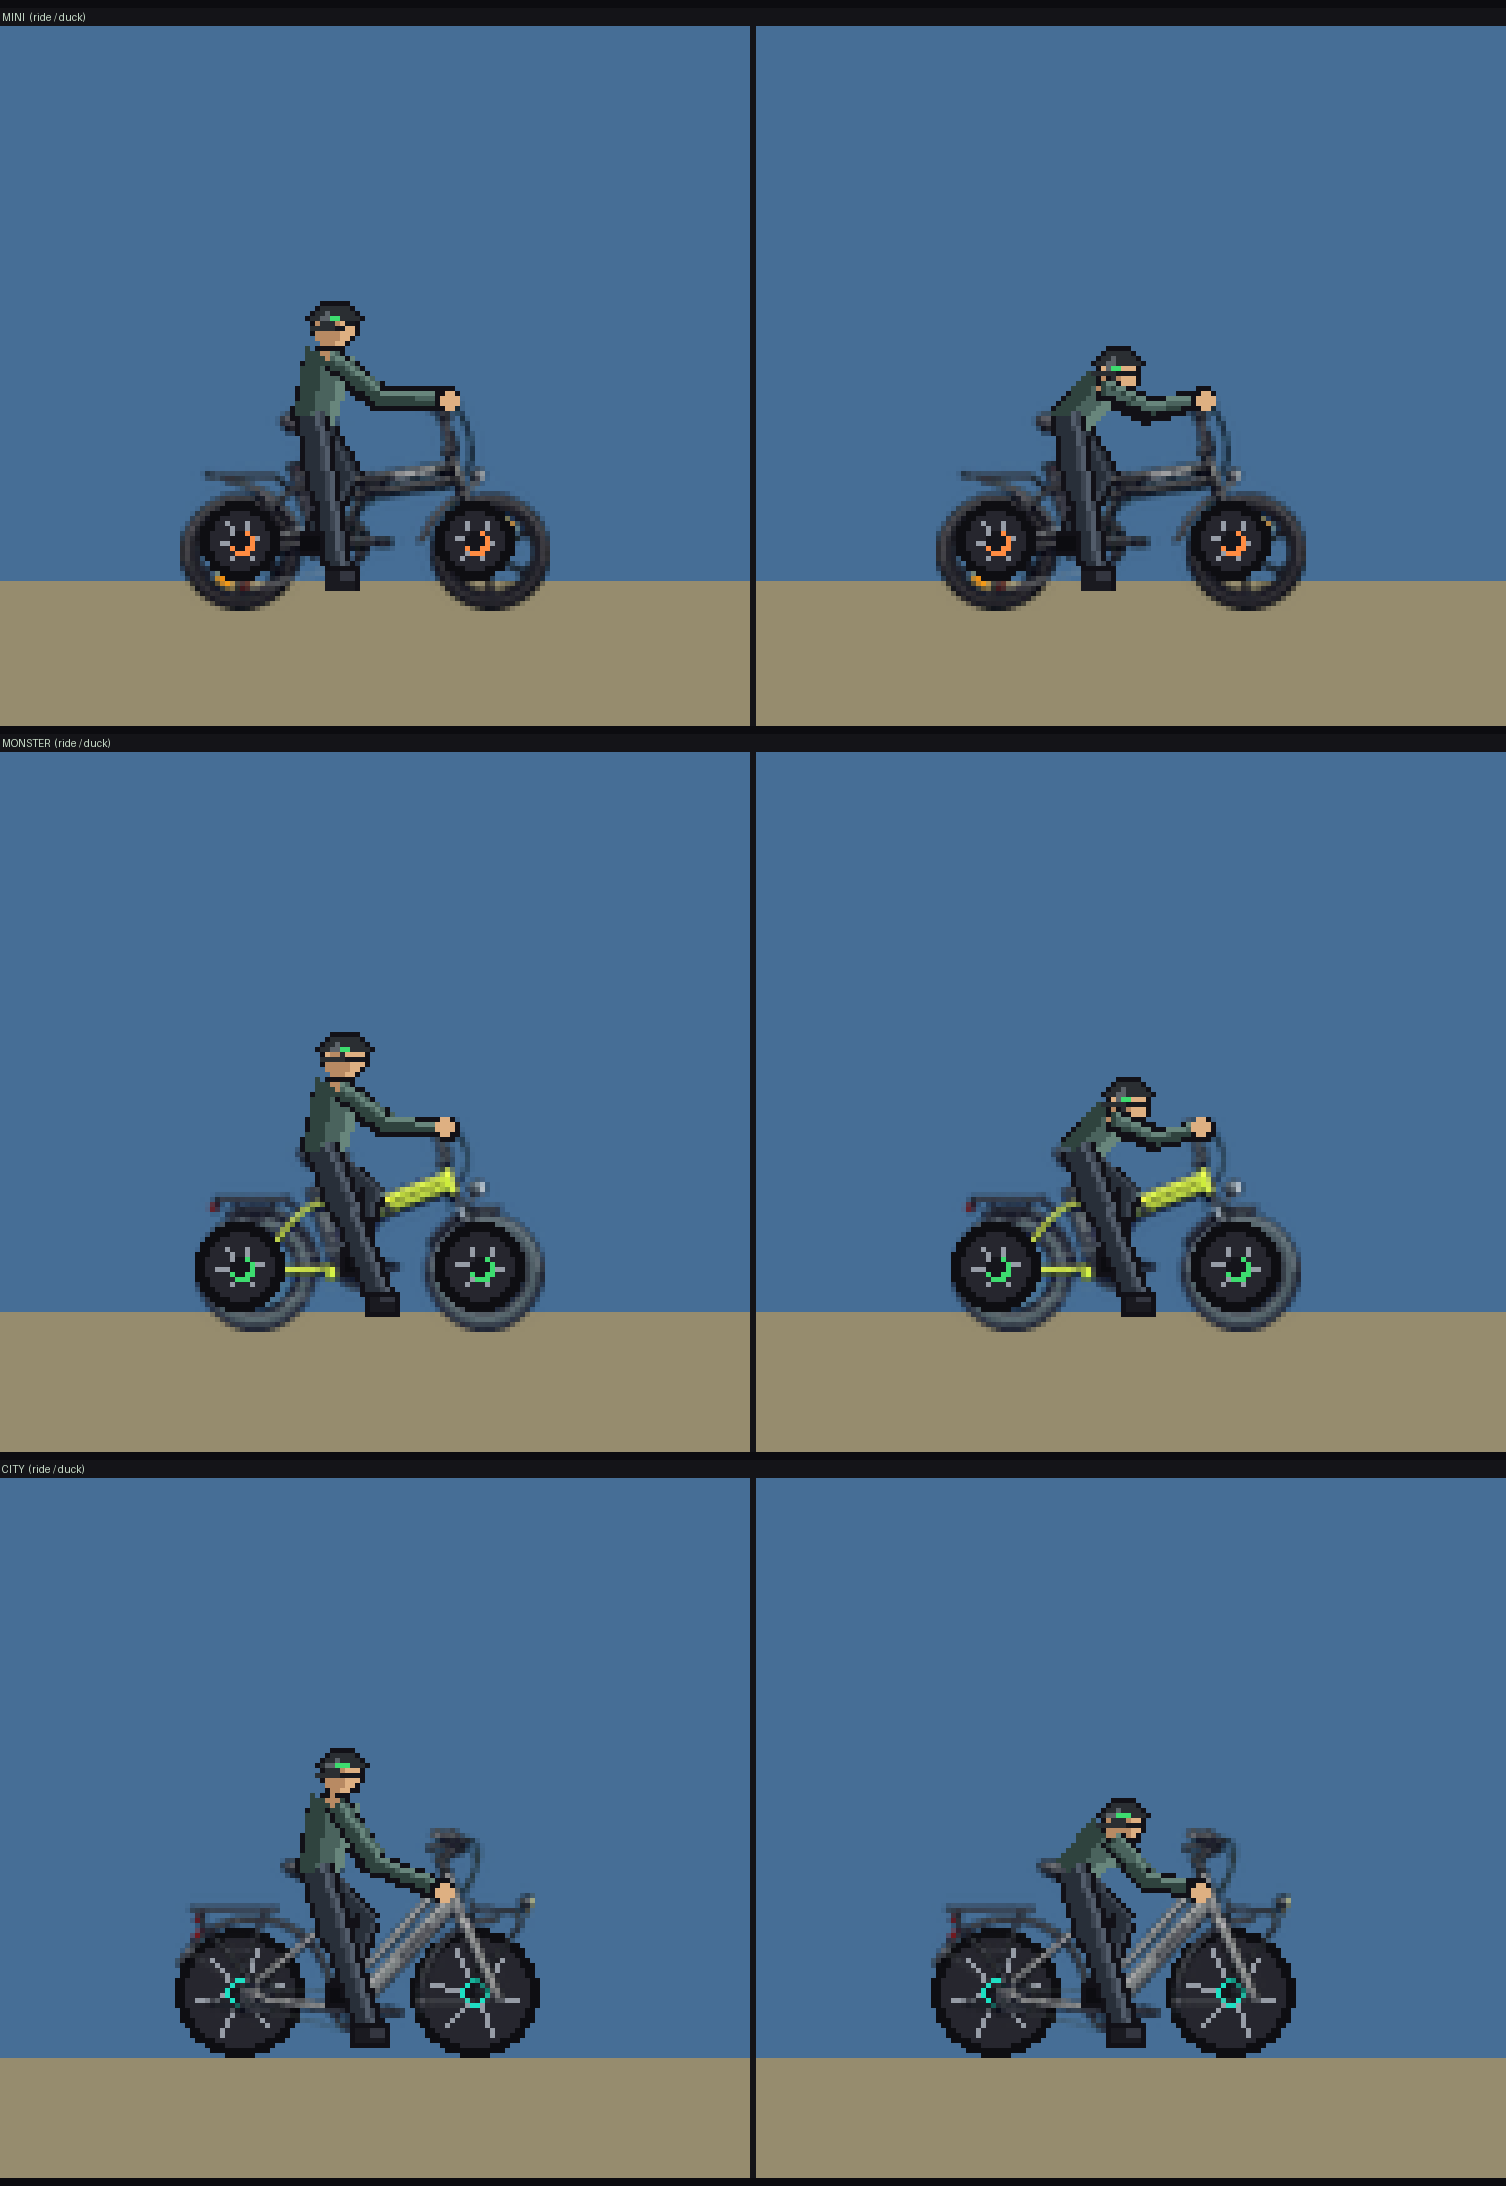
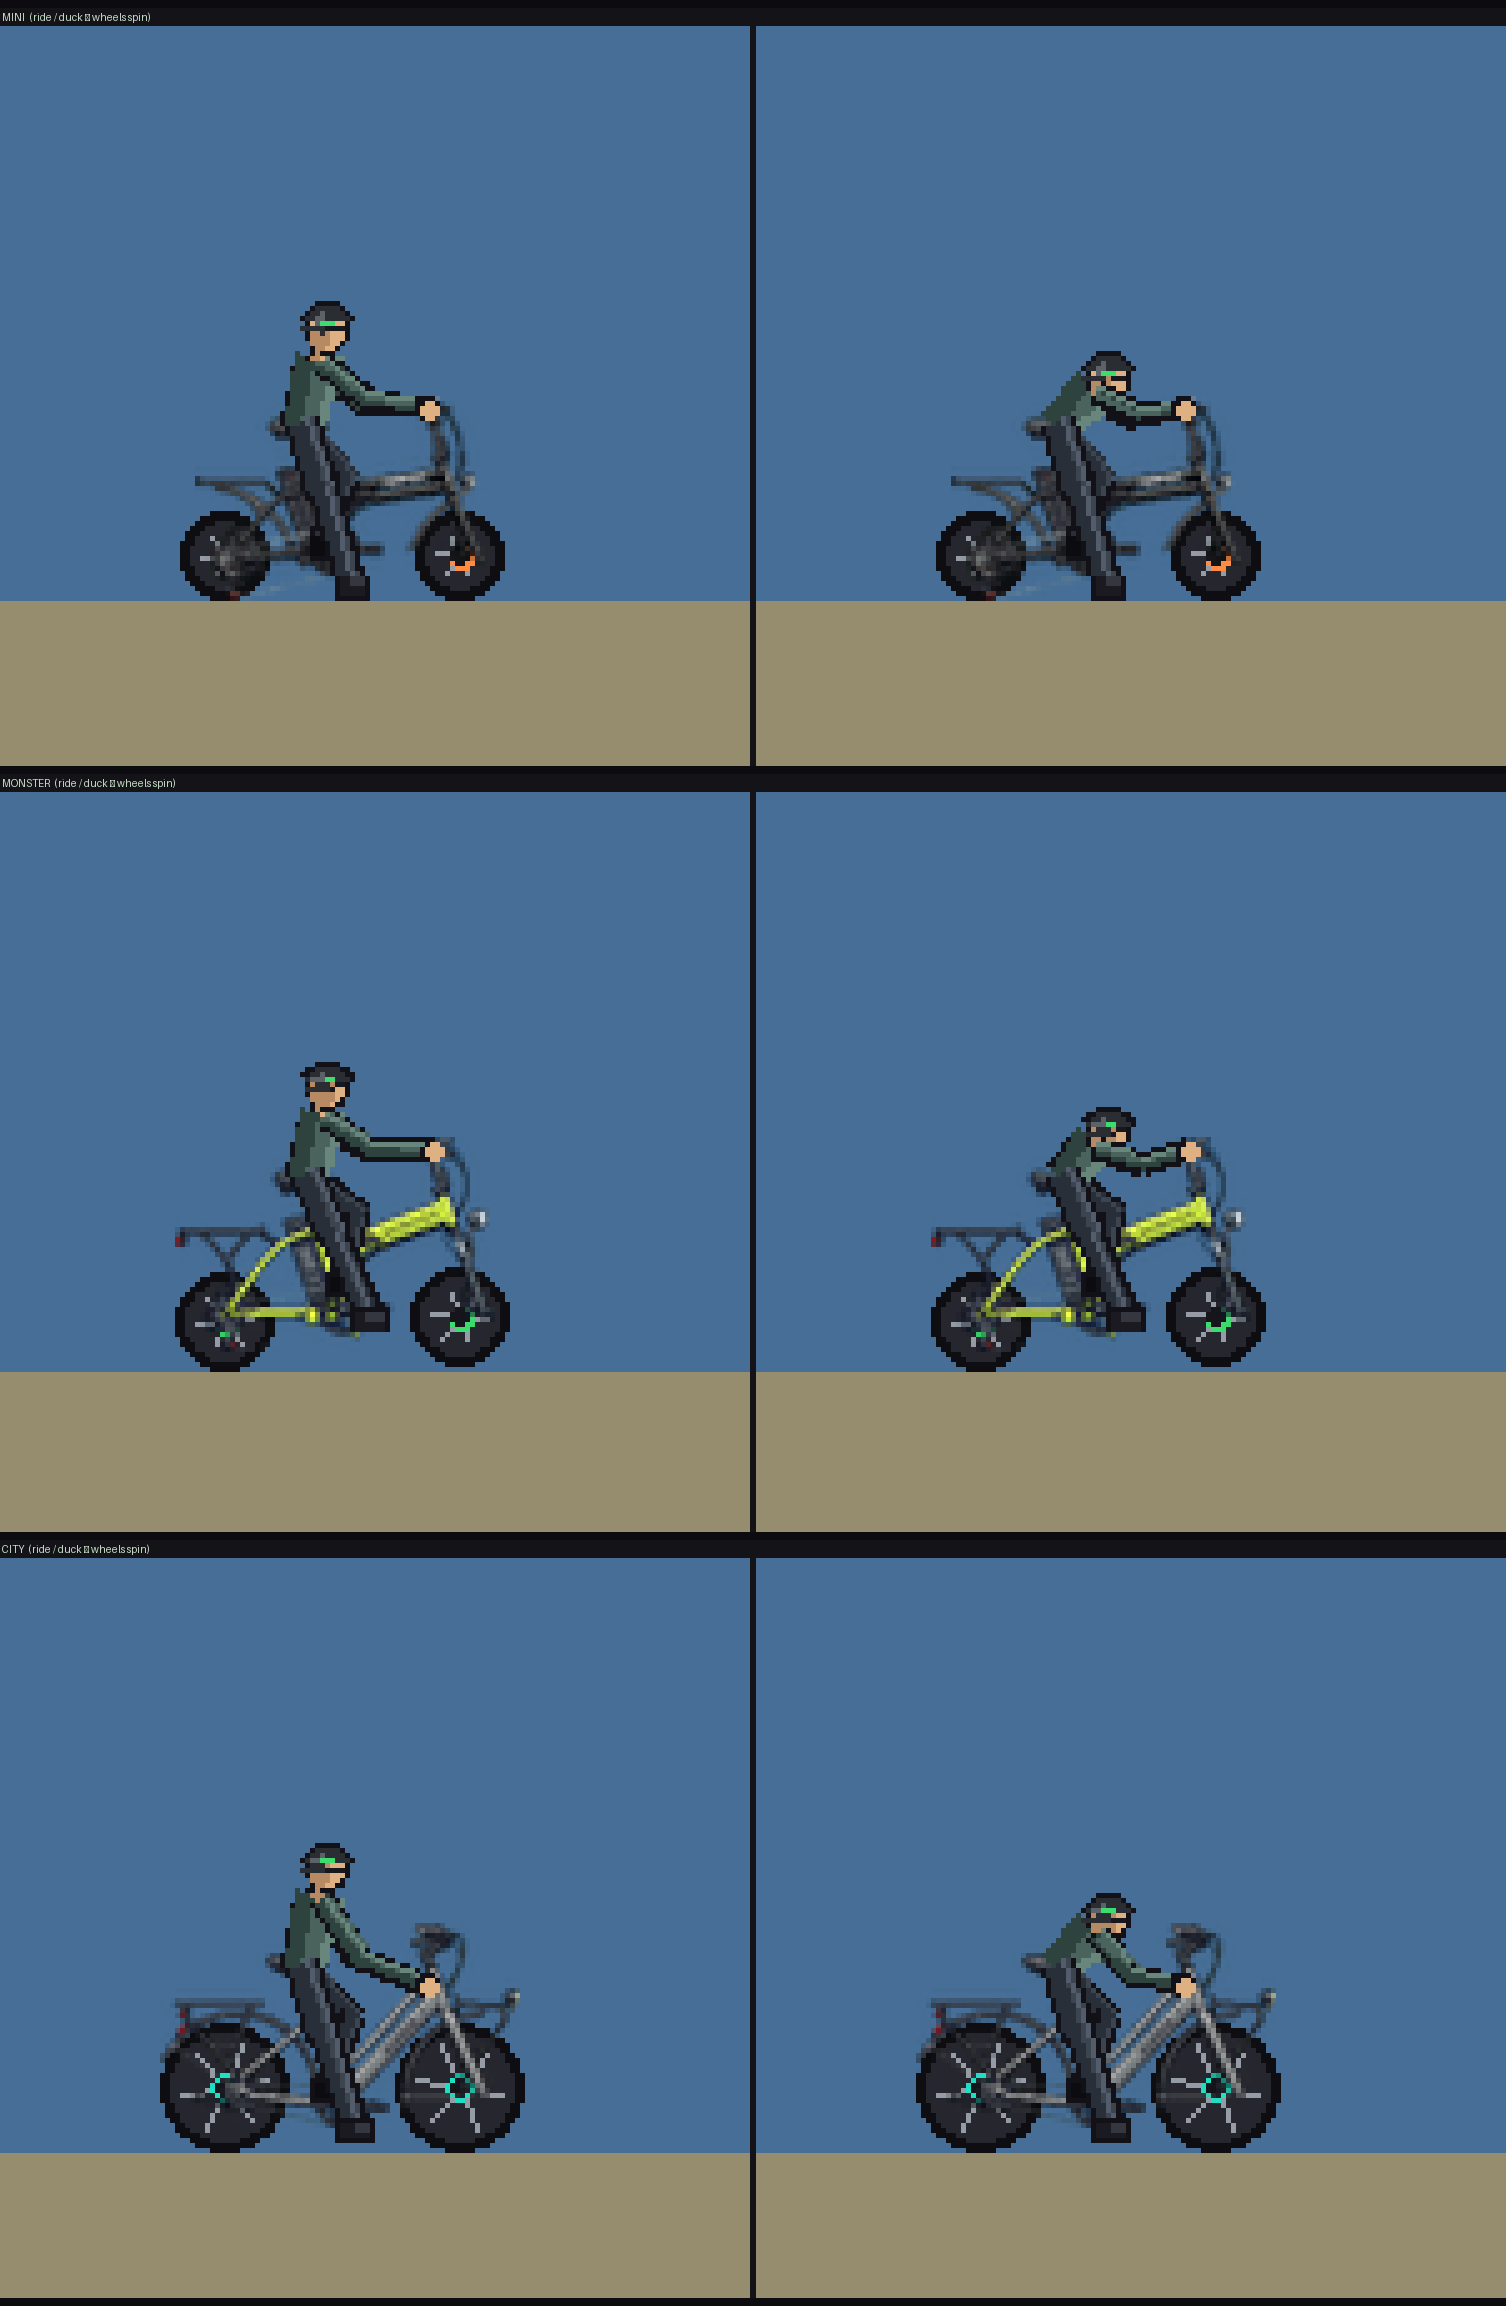
Update
update

Changed region(s): [[0.0, 0.7777, 1.0, 0.9643], [0.0, 0.4666, 1.0, 0.6221], [0.0, 0.1244, 1.0, 0.28]]

diff --git a/projects/eco_rider/index.html b/projects/eco_rider/index.html
@@ -39,7 +39,7 @@
   .card{width:188px;background:var(--panel);border:3px solid var(--line);padding:12px 11px 14px;cursor:pointer;
     transition:transform .12s,border-color .12s,box-shadow .12s;}
   .card:hover,.card:focus{transform:translateY(-5px);border-color:var(--cyan);box-shadow:0 0 0 3px rgba(28,224,196,.25),0 9px 0 #06241a;outline:none;}
-  .card canvas{width:152px;height:90px;margin:0 auto;background:linear-gradient(#16241b,#0e1813);border:2px solid #29402f;}
+  .card canvas{width:152px;height:90px;margin:0 auto;background:linear-gradient(#cdeeda,#b3e2c8);border:2px solid #8fc7a6;}
   .cname{font-size:9px;margin:9px 0 3px;}
   .cstyle{font-size:6.5px;color:var(--gold);line-height:1.7;min-height:22px;}
   .stat{display:flex;align-items:center;gap:6px;font-size:6.5px;margin-top:6px;color:#bfe9cf;}
@@ -1169,20 +1169,19 @@ const BIKE_ART={
     px:{back:[200,498],front:[940,496],crank:[560,545],seat:[440,125],bar:[835,180]},
     bodyWheelRadius:196, targetWheelbase:48, full:'city-full.png'
   },
-  // Monster & Mini: FULL bike art (undistorted); spinning procedural wheels drawn OVER the real
-  // wheels (coverWheels) so the fat tire shows as a ring around the moving spokes. Anchors measured
-  // on the full images where the hubs are visible.
+  // Monster & Mini: wheels-OFF body art + procedural wheels drawn BEHIND (same pipeline as City),
+  // so the wheels genuinely spin. The full image is kept only as the selection-card hero.
   monster:{
-    body:'monster-full.png', coverWheels:true,
-    ref:[1215,751], refOrigin:[0,0], refBBox:[1215,751],
-    px:{back:[152,510],front:[982,510],crank:[590,545],seat:[430,108],bar:[865,28]},
+    body:'monster-body.png',
+    ref:[980,654], refOrigin:[0,0], refBBox:[980,654],
+    px:{back:[150,558],front:[880,535],crank:[553,478],seat:[405,112],bar:[795,35]},
     bodyWheelRadius:140, targetWheelbase:48, full:'monster-full.png'
   },
   mini:{
-    body:'mini-full.png', coverWheels:true,
-    ref:[1261,752], refOrigin:[0,0], refBBox:[1261,752],
-    px:{back:[188,510],front:[1008,500],crank:[480,555],seat:[430,95],bar:[905,25]},
-    bodyWheelRadius:135, targetWheelbase:48, full:'mini-full.png'
+    body:'mini-body.png',
+    ref:[986,688], refOrigin:[0,0], refBBox:[986,688],
+    px:{back:[95,528],front:[910,530],crank:[470,540],seat:[350,82],bar:[790,25]},
+    bodyWheelRadius:140, targetWheelbase:48, full:'mini-full.png'
   }
 };
 function alphaBBox(img){               // may throw SecurityError on file://
@@ -1489,8 +1488,10 @@ function buildCards(){
     const pc=card.querySelector('canvas').getContext('2d'); let pt=0;
     setInterval(()=>{
       pc.setTransform(3,0,0,3,0,0);            // 3x backing -> crisp; logical card stays 152x90
-      pc.clearRect(0,0,152,90); pc.fillStyle='#16241b'; pc.fillRect(0,0,152,90);
-      pc.fillStyle='#1a2a20'; pc.fillRect(0,76,152,14);
+      pc.clearRect(0,0,152,90);
+      const cg=pc.createLinearGradient(0,0,0,90); cg.addColorStop(0,'#cdeeda'); cg.addColorStop(1,'#b3e2c8');
+      pc.fillStyle=cg; pc.fillRect(0,0,152,90);
+      pc.fillStyle='#a4d8bb'; pc.fillRect(0,76,152,14);
       const hero=BIKES[k].menuImg;
       if(hero){                                 // high-res recognizable product shot, NO rider
         const pad=8, availW=152-pad*2, availH=78;
